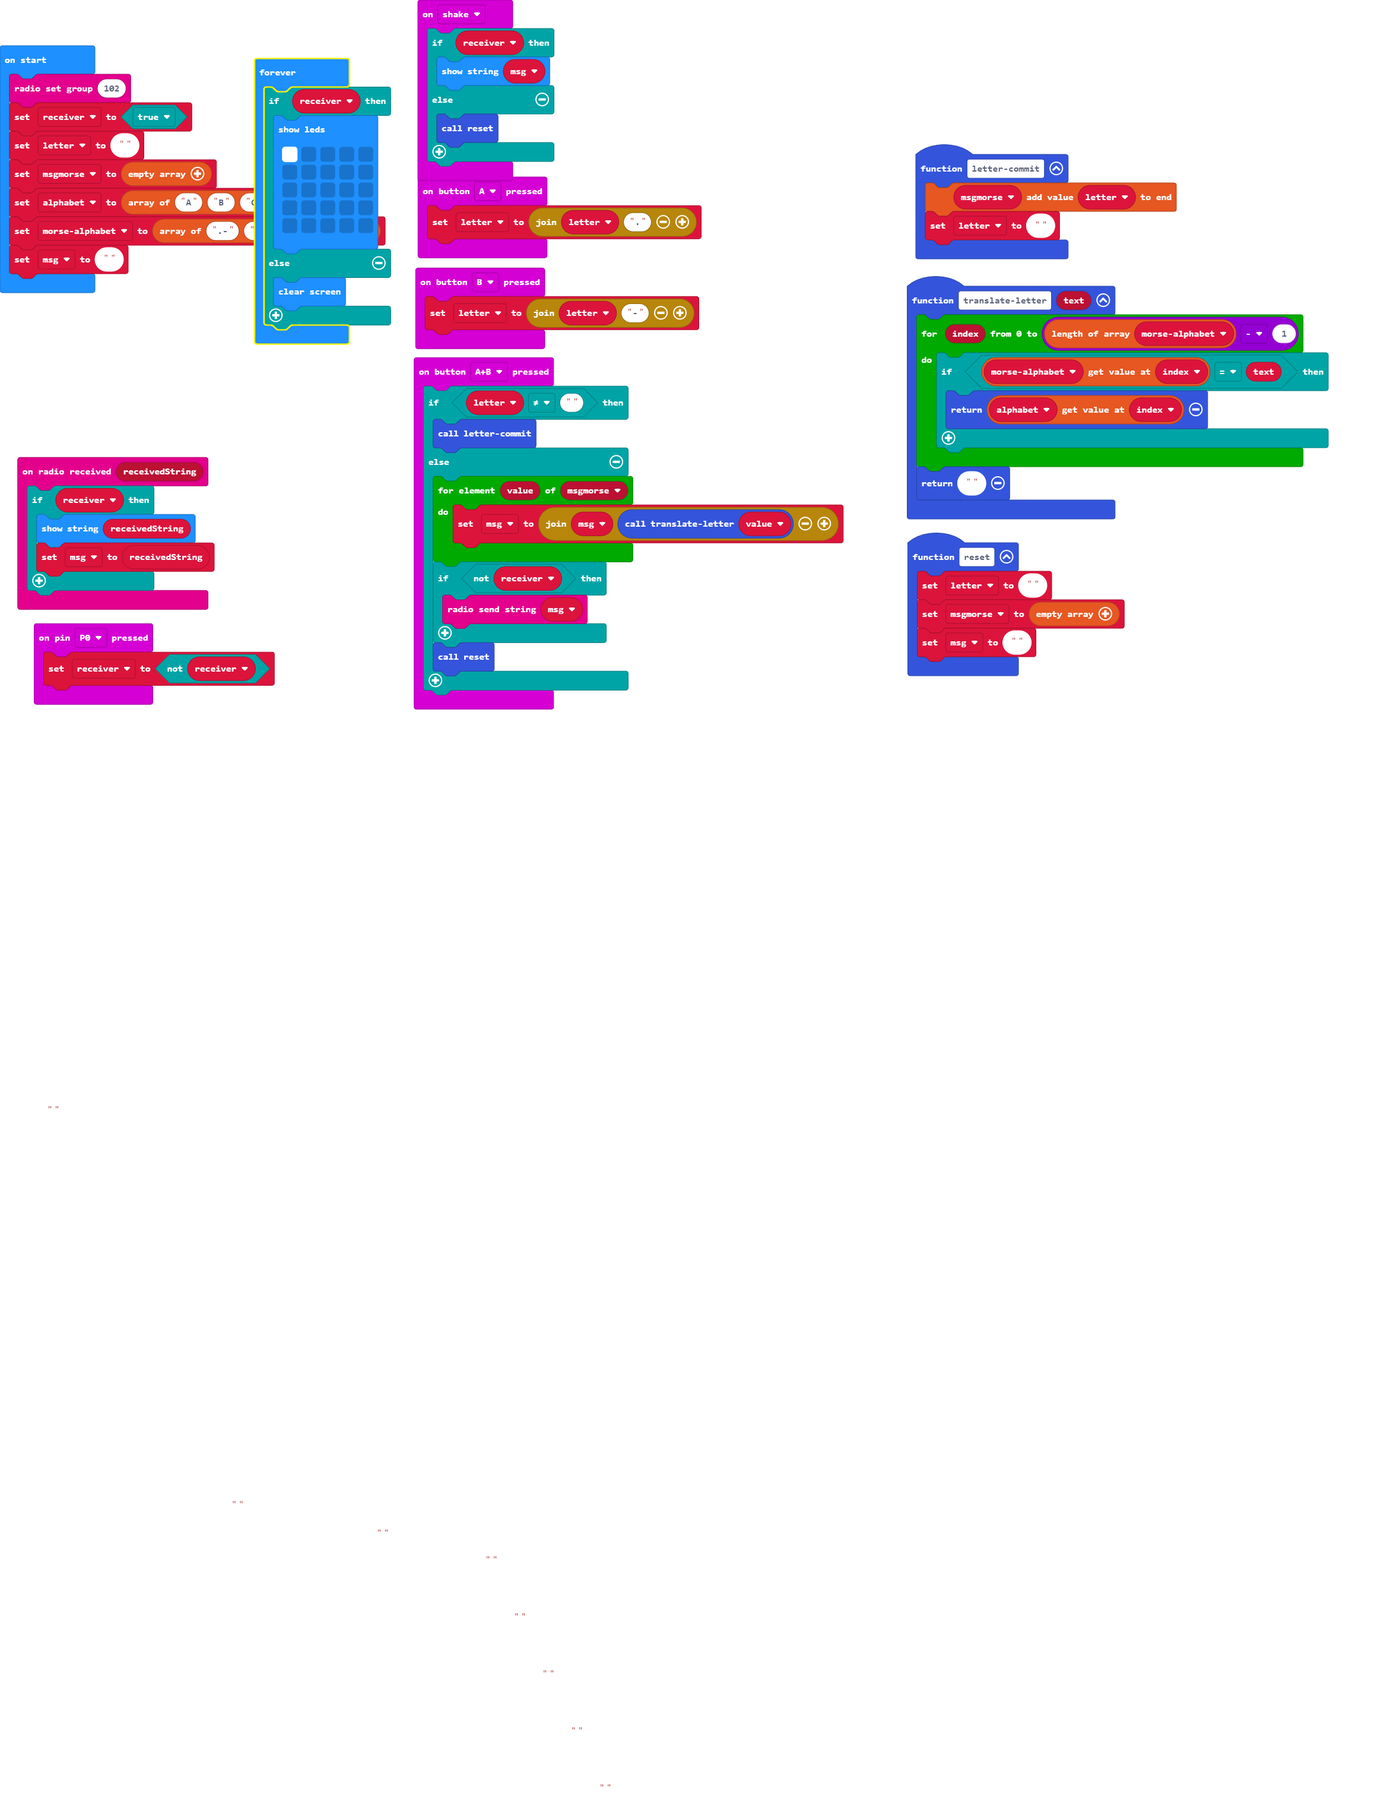
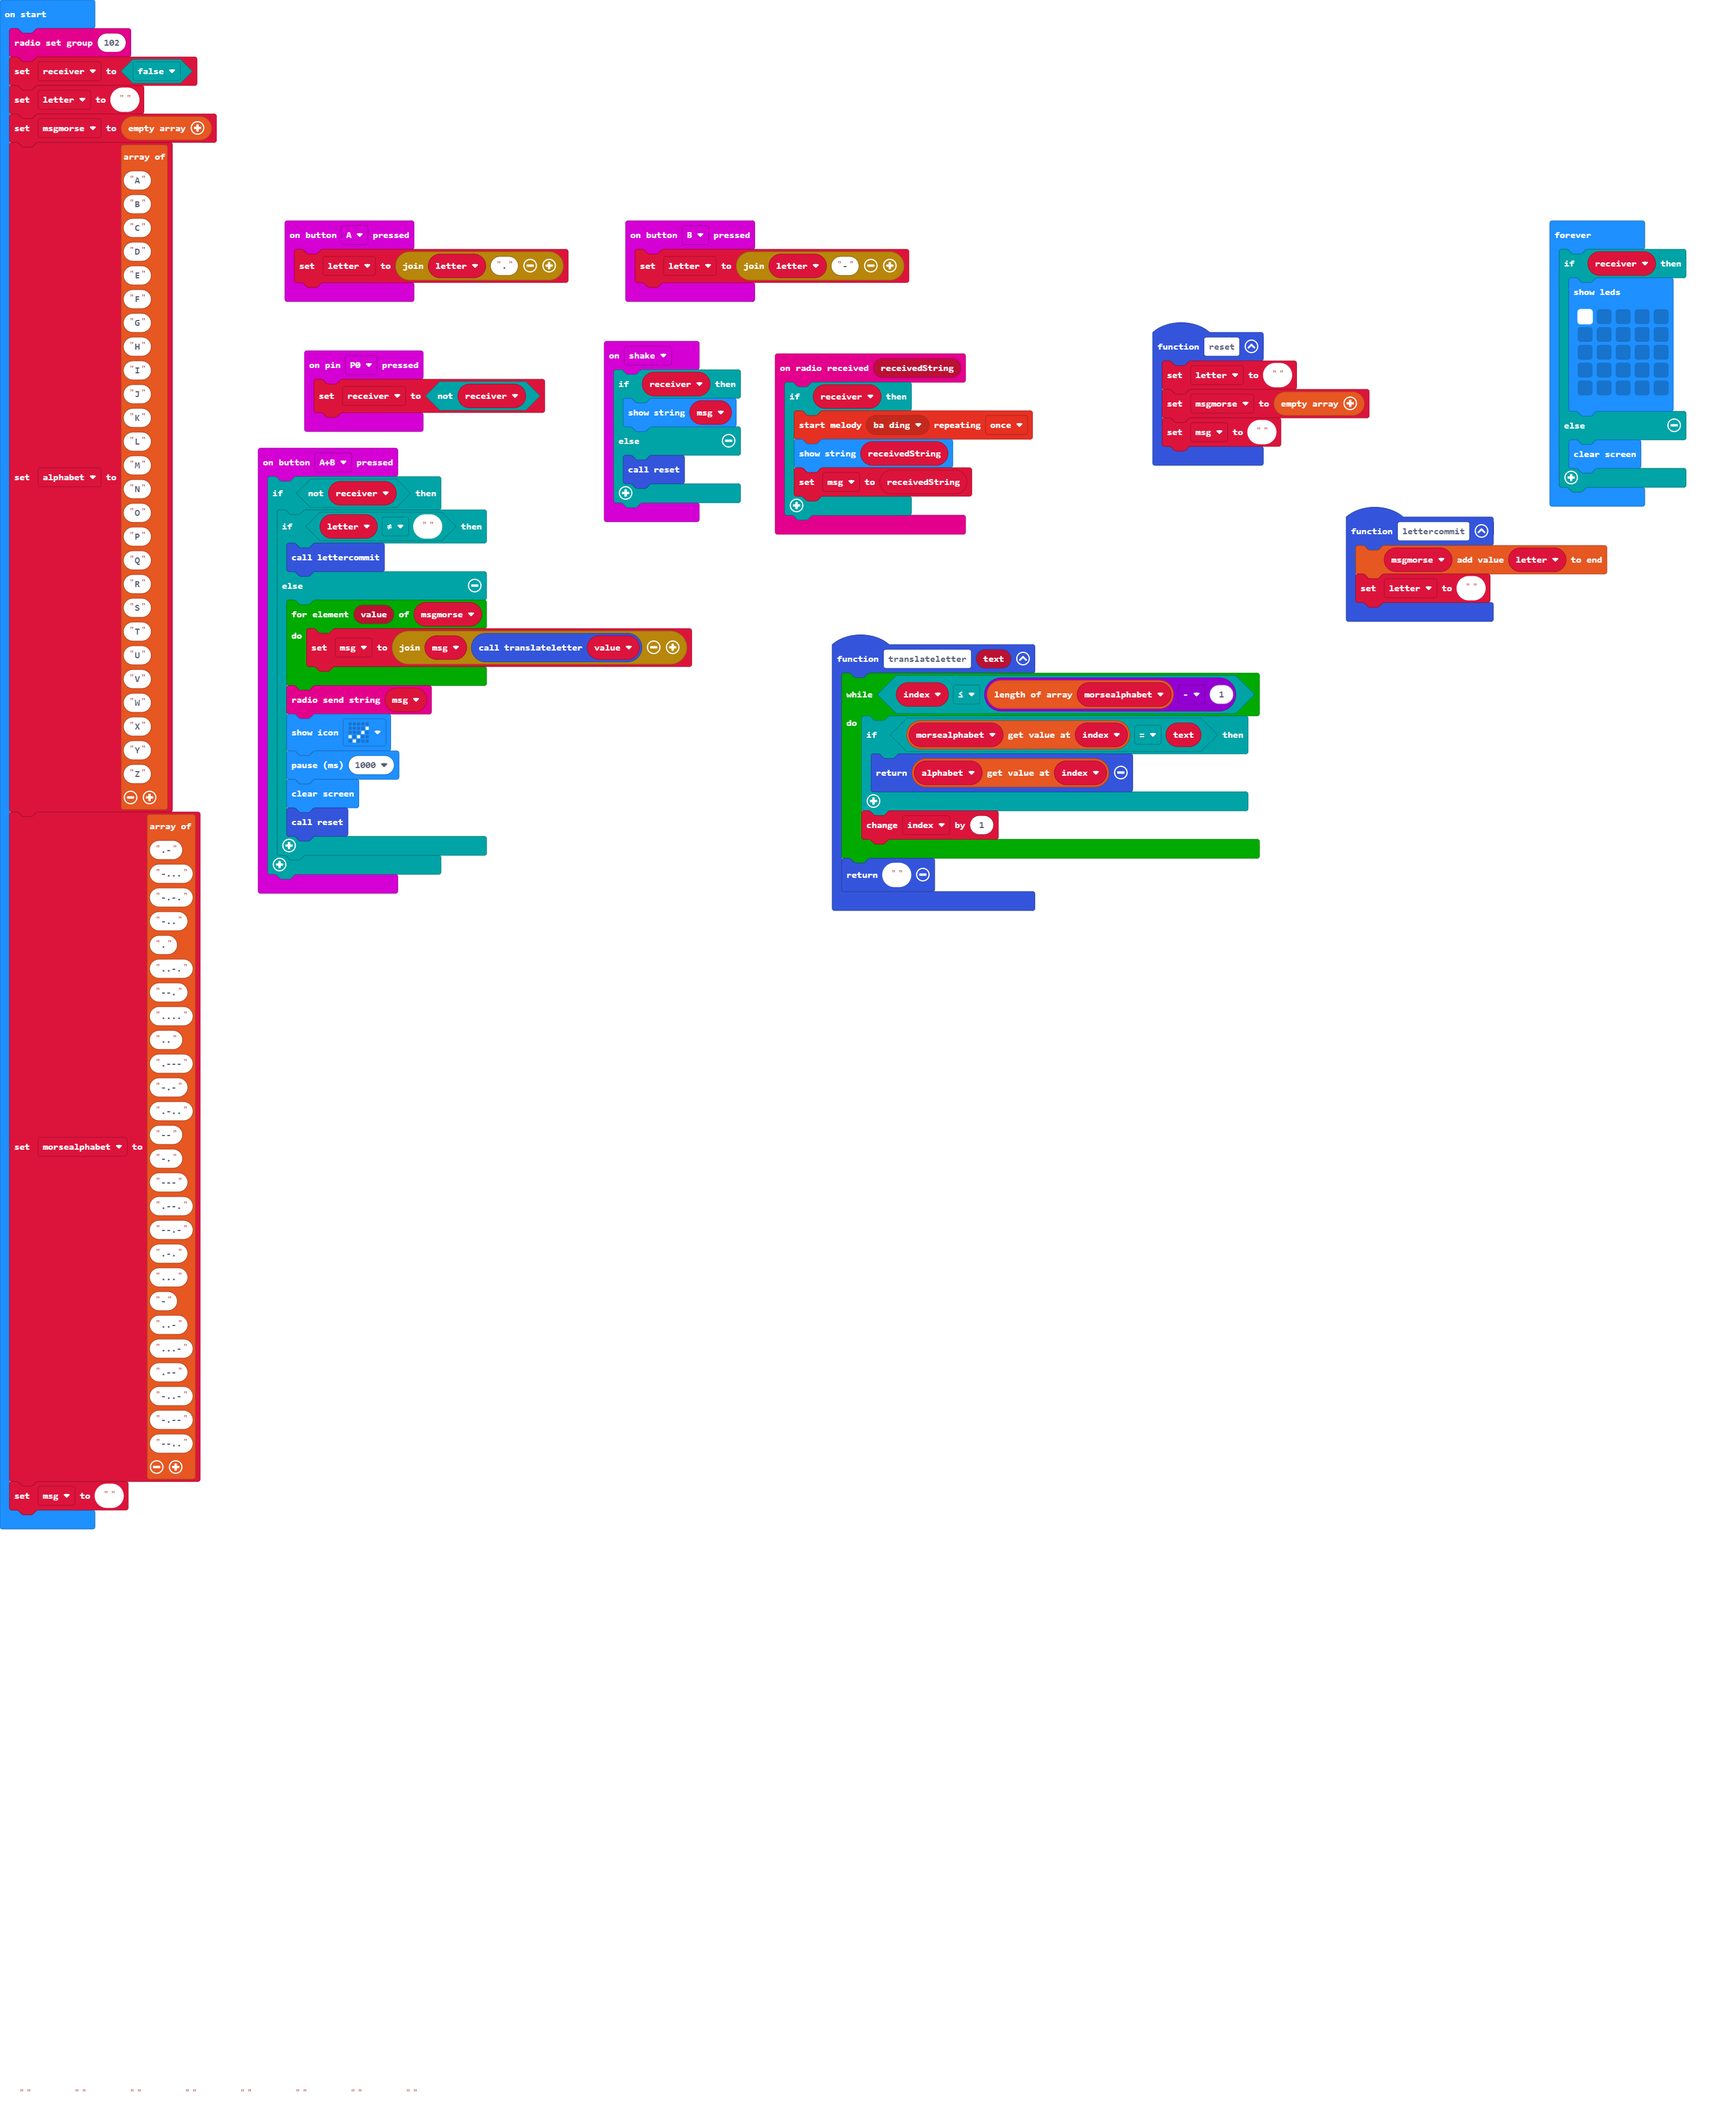
Update main.blocks, main.ts, main.py

Changed region(s): [[0.0, 0.0, 0.9663, 0.7438]]

diff --git a/main.ts b/main.ts
@@ -1,36 +1,37 @@
 input.onPinPressed(TouchPin.P0, function () {
     receiver = !(receiver)
 })
-function translateletter (text: string) {
-    for (let index = 0; index <= morsealphabet.length - 1; index++) {
-        if (morsealphabet[index] == text) {
-            return alphabet[index]
-        }
-    }
-    return ""
-}
-function lettercommit () {
-    msgmorse.push(letter)
-    letter = ""
-}
 input.onButtonPressed(Button.A, function () {
     letter = "" + letter + "."
 })
+function translateletter (text: string) {
+    while (index <= morsealphabet.length - 1) {
+        if (morsealphabet[index] == text) {
+            return alphabet[index]
+        }
+        index += 1
+    }
+    return ""
+}
 input.onButtonPressed(Button.AB, function () {
-    if (letter != "") {
-        lettercommit()
-    } else {
-        for (let value of msgmorse) {
-            msg = "" + msg + translateletter(value)
-        }
-        if (!(receiver)) {
+    if (!(receiver)) {
+        if (letter != "") {
+            lettercommit()
+        } else {
+            for (let value of msgmorse) {
+                msg = "" + msg + translateletter(value)
+            }
             radio.sendString("" + (msg))
+            basic.showIcon(IconNames.Yes)
+            basic.pause(1000)
+            basic.clearScreen()
+            reset()
         }
-        reset()
     }
 })
 radio.onReceivedString(function (receivedString) {
     if (receiver) {
+        music.startMelody(music.builtInMelody(Melodies.BaDing), MelodyOptions.Once)
         basic.showString(receivedString)
         msg = receivedString
     }
@@ -50,6 +51,11 @@ function reset () {
     msgmorse = []
     msg = ""
 }
+function lettercommit () {
+    msgmorse.push(letter)
+    letter = ""
+}
+let index = 0
 let msg = ""
 let morsealphabet: string[] = []
 let alphabet: string[] = []
@@ -57,11 +63,65 @@ let msgmorse: string[] = []
 let letter = ""
 let receiver = false
 radio.setGroup(102)
-receiver = true
+receiver = false
 letter = ""
 msgmorse = []
-alphabet = ["A", "B", "C"]
-morsealphabet = [".-", "-...", "-.-."]
+alphabet = [
+"A",
+"B",
+"C",
+"D",
+"E",
+"F",
+"G",
+"H",
+"I",
+"J",
+"K",
+"L",
+"M",
+"N",
+"O",
+"P",
+"Q",
+"R",
+"S",
+"T",
+"U",
+"V",
+"W",
+"X",
+"Y",
+"Z"
+]
+morsealphabet = [
+".-",
+"-...",
+"-.-.",
+"-..",
+".",
+"..-.",
+"--.",
+"....",
+"..",
+".---",
+"-.-",
+".-..",
+"--",
+"-.",
+"---",
+".--.",
+"--.-",
+".-.",
+"...",
+"-",
+"..-",
+"...-",
+".--",
+"-..-",
+"-.--",
+"--.."
+]
 msg = ""
 basic.forever(function () {
     if (receiver) {

diff --git a/main.py b/main.py
@@ -1,26 +1,139 @@
-def translate(text: str):
-    pass
+def on_pin_pressed_p0():
+    global receiver
+    receiver = not (receiver)
+input.on_pin_pressed(TouchPin.P0, on_pin_pressed_p0)
 
 def on_button_pressed_a():
-    global msgmorse
-    msgmorse = "" + msgmorse + "-"
+    global letter
+    letter = "" + letter + "."
 input.on_button_pressed(Button.A, on_button_pressed_a)
 
+def translateletter(text: str):
+    global index
+    while index <= len(morsealphabet) - 1:
+        if morsealphabet[index] == text:
+            return alphabet[index]
+        index += 1
+    return ""
+
 def on_button_pressed_ab():
-    basic.show_string(msgmorse)
+    global msg
+    if not (receiver):
+        if letter != "":
+            lettercommit()
+        else:
+            for value in msgmorse:
+                msg = "" + msg + translateletter(value)
+            radio.send_string("" + (msg))
+            basic.show_icon(IconNames.YES)
+            basic.pause(1000)
+            basic.clear_screen()
+            reset()
 input.on_button_pressed(Button.AB, on_button_pressed_ab)
 
+def on_received_string(receivedString):
+    global msg
+    if receiver:
+        music.start_melody(music.built_in_melody(Melodies.BA_DING), MelodyOptions.ONCE)
+        basic.show_string(receivedString)
+        msg = receivedString
+radio.on_received_string(on_received_string)
+
 def on_button_pressed_b():
-    global msgmorse
-    msgmorse = "" + msgmorse + "."
+    global letter
+    letter = "" + letter + "-"
 input.on_button_pressed(Button.B, on_button_pressed_b)
 
-msgmorse = ""
-msgtext = ""
+def on_gesture_shake():
+    if receiver:
+        basic.show_string("" + (msg))
+    else:
+        reset()
+input.on_gesture(Gesture.SHAKE, on_gesture_shake)
+
+def reset():
+    global letter, msgmorse, msg
+    letter = ""
+    msgmorse = []
+    msg = ""
+def lettercommit():
+    global letter
+    msgmorse.append(letter)
+    letter = ""
+index = 0
+msg = ""
+morsealphabet: List[str] = []
+alphabet: List[str] = []
+msgmorse: List[str] = []
+letter = ""
+receiver = False
 radio.set_group(102)
-msgmorse = ""
-a = "\".-\""
+receiver = False
+letter = ""
+msgmorse = []
+alphabet = ["A",
+    "B",
+    "C",
+    "D",
+    "E",
+    "F",
+    "G",
+    "H",
+    "I",
+    "J",
+    "K",
+    "L",
+    "M",
+    "N",
+    "O",
+    "P",
+    "Q",
+    "R",
+    "S",
+    "T",
+    "U",
+    "V",
+    "W",
+    "X",
+    "Y",
+    "Z"]
+morsealphabet = [".-",
+    "-...",
+    "-.-.",
+    "-..",
+    ".",
+    "..-.",
+    "--.",
+    "....",
+    "..",
+    ".---",
+    "-.-",
+    ".-..",
+    "--",
+    "-.",
+    "---",
+    ".--.",
+    "--.-",
+    ".-.",
+    "...",
+    "-",
+    "..-",
+    "...-",
+    ".--",
+    "-..-",
+    "-.--",
+    "--.."]
+msg = ""
 
 def on_forever():
-    pass
+    if receiver:
+        basic.show_leds("""
+            # . . . .
+                        . . . . .
+                        . . . . .
+                        . . . . .
+                        . . . . .
+        """)
+    else:
+        basic.clear_screen()
 basic.forever(on_forever)
